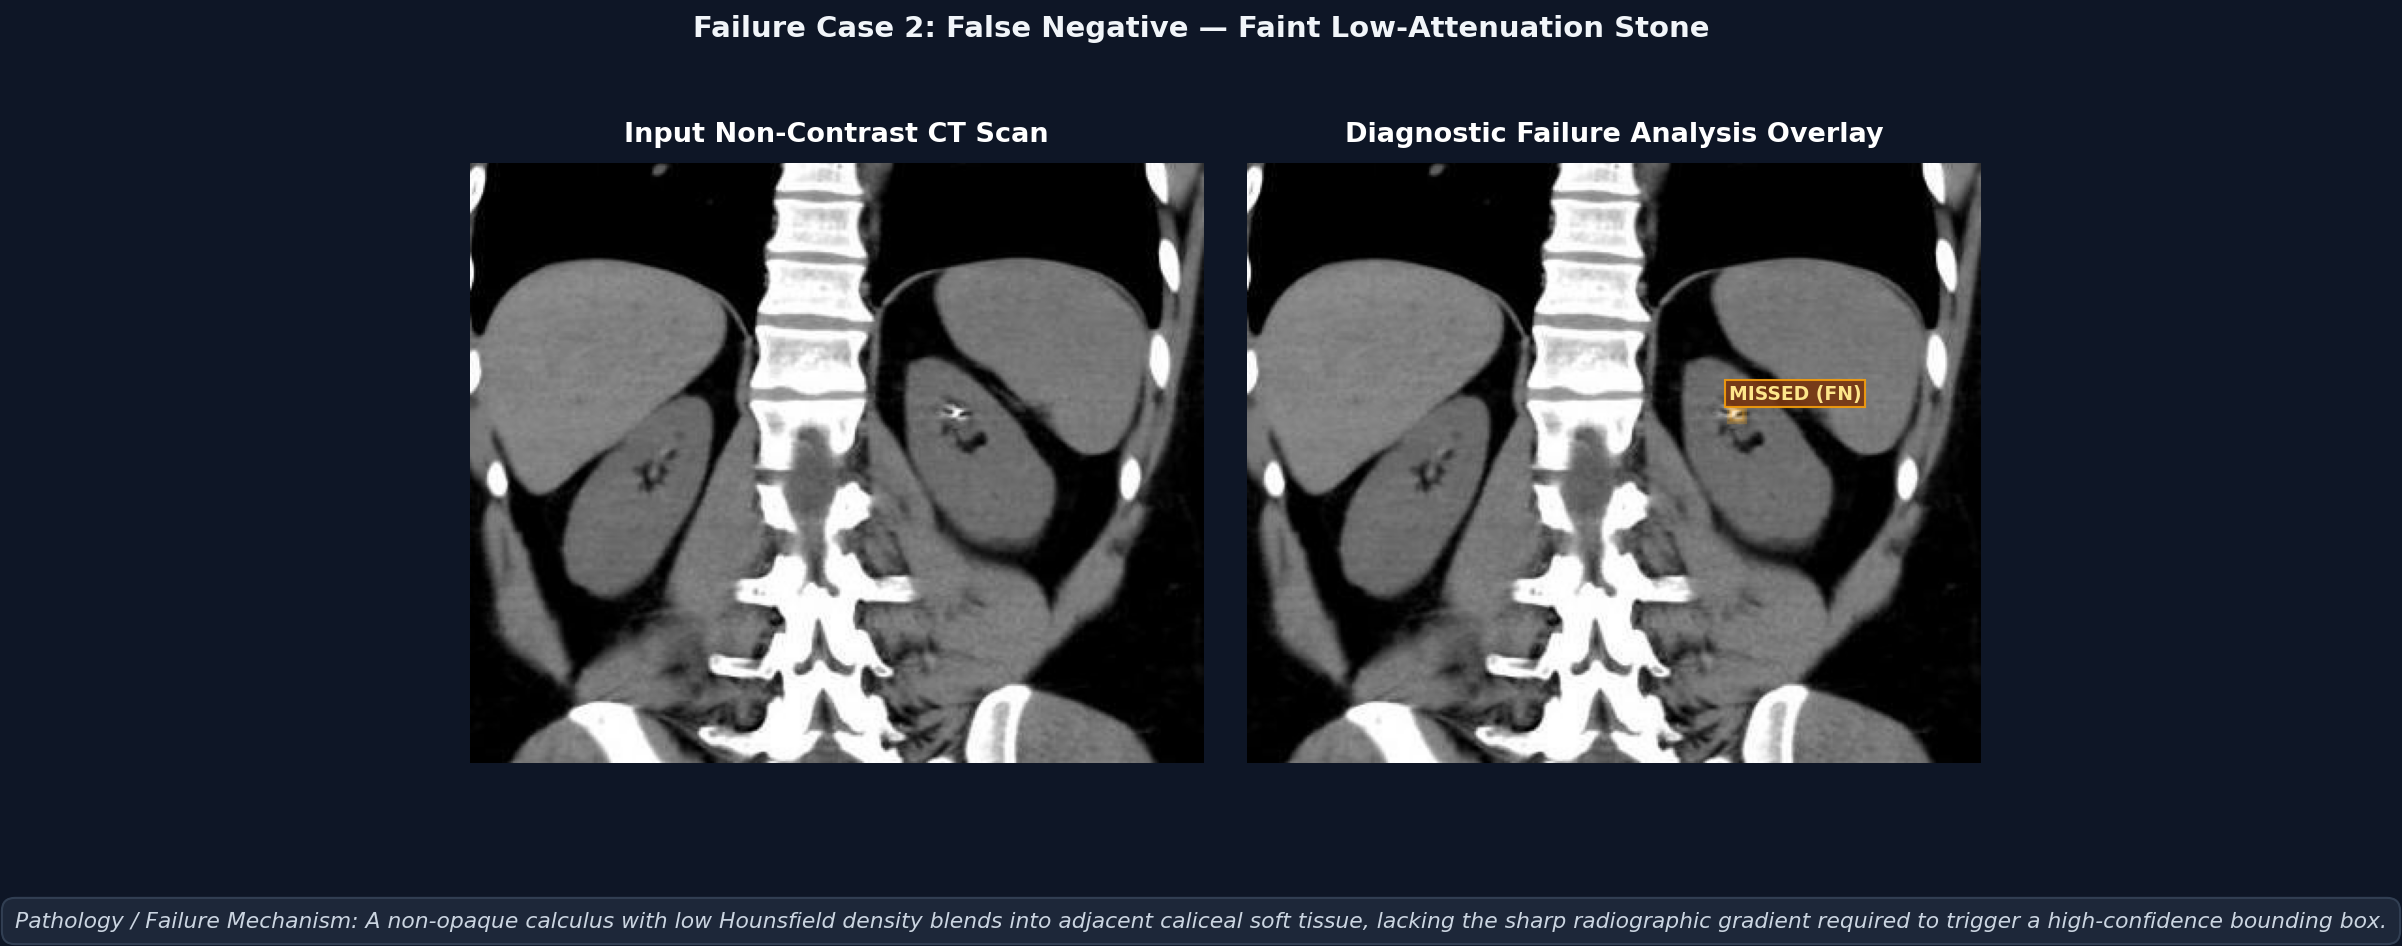
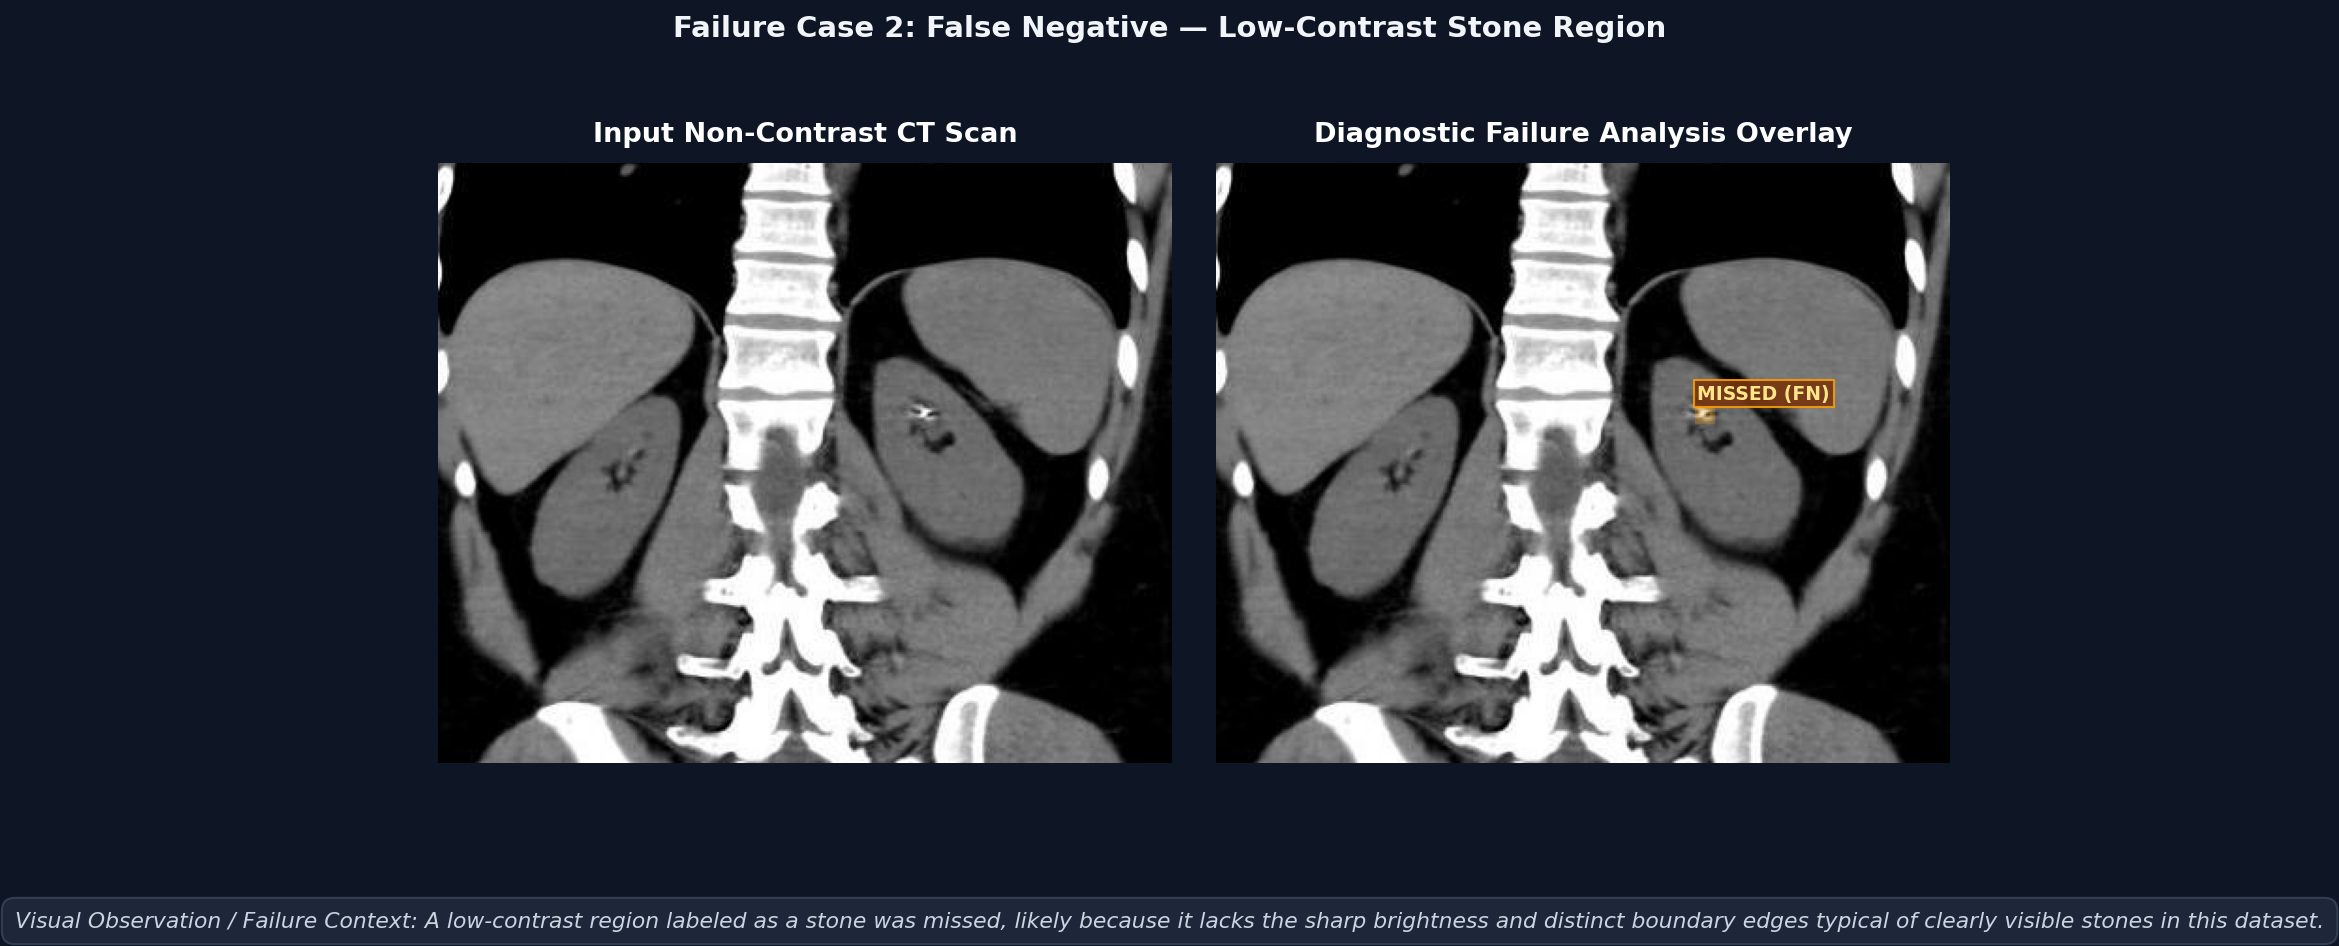
docs: calibrate failure mode explanations to observable visual characteristics

diff --git a/README.md b/README.md
@@ -58,27 +58,27 @@ An error breakdown was conducted on the original 123 held-out test scans (224 gr
 | **False Negatives (FN)** | **52** | 23.21% | Ground-truth stones that failed to meet the confidence or IoU criteria |
 | **Operational F1** | **80.94%** | — | Precision: **85.57%** \| Recall: **76.79%** |
 
-Honest qualitative inspection of the false positives and false negatives revealed five primary failure mechanisms:
+Qualitative inspection of the false positives and false negatives reveals five primary observed failure modes based on visual characteristics and spatial context:
 
-* **Sub-Resolution Punctate Calculi (False Negatives)**: Tiny punctate stones ($\le 6\times 6\text{ px}$ / $\le 4.2\text{ mm}$) generate minimal volumetric attenuation, causing deep convolutional feature activations to fall just below the detection threshold.
-* **Dense Cortical Bone Mimicry (False Positives)**: High-attenuation cortical bone margins along vertebral transverse processes and lower ribs exhibit radio-density similar to calcified stones. Because the detector operates on whole-slice CT without an initial kidney mask, dense skeletal structures can trigger false alarms.
-* **Extra-Renal Vascular Calcifications (False Positives)**: Pelvic phleboliths and vascular calcifications exhibit identical radio-opacity and rounded morphology to nephrolithiasis, leading to false detections outside the renal collecting system.
-* **Low-Contrast / Faint Calculi (False Negatives)**: Low-attenuation or uric acid stones with subtle grayscale gradients against surrounding parenchyma fail to trigger high-confidence detections.
-* **Clustered / Multi-Focal Proximity (False Negatives)**: When multiple small stones lie in immediate adjacent calyces, non-maximum suppression or shared spatial receptive fields can lead to one stone being caught while adjacent companion stones are missed.
+* **Stones Near the Practical Resolution Limit (False Negatives)**: Very small stones ($\le 6\times 6\text{ px}$, roughly $\le 4\text{ mm}$ at $512\times 512$ resolution) were missed, likely because their small pixel footprint approaches the practical spatial resolution limit of the detector at this scale.
+* **Bright Skeletal Structures Near Vertebral Margins (False Positives)**: Compact, bright structures along the vertebral edge and lower rib margins visually resemble calcified stones in grayscale intensity and shape. Because the model operates on the full CT slice without an explicit kidney segmentation mask to constrain the search space, these dense bony margins can trigger false detections.
+* **Dense Extra-Renal Structures (False Positives)**: Dense, rounded structures outside the expected kidney region share similar visual brightness, size, and rounded contour with stones, leading to false detections in the absence of organ-boundary priors.
+* **Faint, Low-Contrast Stone Regions (False Negatives)**: Ground-truth stones with low visual contrast against the surrounding renal tissue lacked the sharp boundary gradients typical of clearly detectable stones, failing to meet the confidence threshold.
+* **Clustered Stones in Close Proximity (False Negatives)**: When multiple annotated stones appear in close spatial proximity, the detector sometimes successfully captures one or two while missing adjacent companion stones, likely due to spatial overlap or bounding box suppression.
 
 Detailed diagnostic overlays for representative failure cases are archived in [`verification/failure_cases/`](verification/failure_cases/):
 
-#### Case 1 — Sub-Resolution Punctate Calculus (False Negative)
-*A tiny punctate calculus measuring only 6x6 pixels (~4.2 mm) in the lower pole was missed because its minimal attenuation volume produced feature activations below the detection threshold.*
-![Failure Case 1 — Sub-Resolution Punctate Calculus](verification/failure_cases/failure_01_fn_subresolution_tiny_stone.png)
+#### Case 1 — Very Small Stone Near Resolution Limit (False Negative)
+*A very small stone (~6x6 pixels, roughly 4 mm) was missed, likely because its size is near the practical detection limit for this model at this image resolution (512x512).*
+![Failure Case 1 — Very Small Stone Near Resolution Limit](verification/failure_cases/failure_01_fn_subresolution_tiny_stone.png)
 
-#### Case 2 — Dense Cortical Bone False Alarm (False Positive)
-*High-density cortical bone at the vertebral transverse process edge exhibits calcified attenuation similar to a stone, falsely triggering a detection without kidney boundary priors.*
-![Failure Case 2 — Dense Cortical Bone False Alarm](verification/failure_cases/failure_03_fp_dense_cortical_bone.png)
+#### Case 2 — Bright Structure Near Vertebral Edge (False Positive)
+*A bright, compact structure near the vertebral edge was falsely detected (confidence 62%), likely due to its visual resemblance in brightness and shape to a stone.*
+![Failure Case 2 — Bright Structure Near Vertebral Edge](verification/failure_cases/failure_03_fp_dense_cortical_bone.png)
 
-#### Case 3 — Extra-Renal Vascular Phlebolith (False Positive)
-*A dense extra-renal vascular calcification (pelvic phlebolith) shares near-identical size and radio-opacity with nephrolithiasis, misleading the detector due to lack of anatomical organ masking.*
-![Failure Case 3 — Extra-Renal Vascular Phlebolith](verification/failure_cases/failure_04_fp_vascular_pelvic_phlebolith.png)
+#### Case 3 — Dense Structure Outside Expected Kidney Region (False Positive)
+*A dense, rounded structure outside the expected kidney region was falsely detected (confidence 77%), showing visual similarity in brightness and size to a stone.*
+![Failure Case 3 — Dense Structure Outside Expected Kidney Region](verification/failure_cases/failure_04_fp_vascular_pelvic_phlebolith.png)
 
 ---
 
